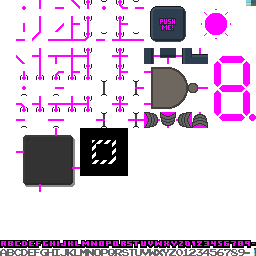
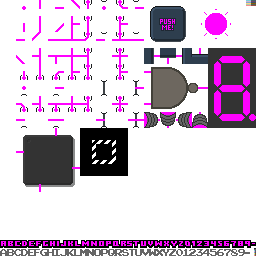
editing 7segment displays

Changed region(s): [[0.8125, 0.1875, 1.0, 0.5]]

diff --git a/src/js/sagas/moveItemAt.ts b/src/js/sagas/moveItemAt.ts
@@ -1,7 +1,7 @@
 import { BoxArea } from 'ennea-tree/lib/types';
 import getNetAt from 'ekkiog-editing/lib/query/getNetAt';
 import { getLightNeighbouringNet } from 'ekkiog-editing/lib/query/getNeighbouringNets';
-import { Direction, TreeNode } from 'ekkiog-editing/lib/main';
+import { Direction, TreeNode, ComponentInputPointer, ComponentInputPointerToGate, ComponentInputPointerToSegment } from 'ekkiog-editing/lib/main';
 import { SelectionState, ItemSelectedState } from '../reduce/selection';
 import { createForest, Item, BUTTON, Tool, LIGHT, GATE, Forest, LEFTWARDS, RIGHTWARDS, DOWNWARDS, UPWARDS, Light, Gate, COMPONENT, Component, Area } from 'ekkiog-editing';
 import { get as getTileAt, AreaData } from 'ennea-tree';
@@ -76,16 +76,17 @@ function setInputs(item: Item, enneaTree: TreeNode, box : Area): Item {
         net: getNetAtPos(enneaTree, box.left, box.top, input.x, input.y, getDirection(input.x, box.width), getDirection(input.y, box.height)),
       }));
       const gates = [...item.gates];
+      const displays = [...item.displays.map(({x, y, segments}) => ({x, y, segments: [...segments]}))];
       for(const input of inputs){
-        for(const point of input.pointsTo){
+        for(const point of input.pointsTo.filter(isGatePointer)){
           gates.splice(point.index, 1, {
             ...gates[point.index],
-            ...(point.input === "A" ? {
-              inputA: input.net
-            } : {
-              inputB: input.net
-            })
+            inputA: point.input === 'A' ? input.net : gates[point.index].inputA,
+            inputB: point.input === 'B' ? input.net : gates[point.index].inputB
           });
+        }
+        for(const point of input.pointsTo.filter(isDisplayPointer)){
+          displays[point.display].segments.splice(point.segment, 1, input.net);
         }
       }
       return {
@@ -132,4 +133,12 @@ function getDirection(pos : number, max : number){
   if(pos === 0) return -1;
   if(pos === max) return 1;
   return 0;
+}
+
+function isGatePointer(p : ComponentInputPointer) : p is ComponentInputPointerToGate {
+  return p.input === 'A' || p.input === 'B';
+}
+
+function isDisplayPointer(p : ComponentInputPointer) : p is ComponentInputPointerToSegment {
+  return p.input === 'S';
 }

diff --git a/src/js/storage/loadForest.ts b/src/js/storage/loadForest.ts
@@ -57,7 +57,7 @@ export default function mixin<T extends Constructor<IRawRepo & IObjectRepo & ILo
         body['2'] ? super.loadTree(body['2'].hash).then(t => this.loadList(t)) : [],
         body['3'] ? super.loadTree(body['3'].hash).then(t => this.loadEnnea(t, size/2)) : undefined,
         body['4'] ? super.loadTree(body['4'].hash).then(t => this.loadList(t)) : [],
-        body['5'] ? super.loadText(body['5'].hash).then(JSON.parse) : undefined,
+        body['5'] ? super.loadText(body['5'].hash).then(JSON.parse).then(upgradeAreaItem) : undefined,
         body['6'] ? super.loadTree(body['6'].hash).then(t => this.loadList(t)) : [],
         body['7'] ? super.loadTree(body['7'].hash).then(t => this.loadEnnea(t, size/2)) : undefined,
         body['8'] ? super.loadTree(body['8'].hash).then(t => this.loadList(t)) : [],
@@ -97,7 +97,13 @@ export default function mixin<T extends Constructor<IRawRepo & IObjectRepo & ILo
 
     async loadList(items : TreeBody) : Promise<EnneaLeaf[]> {
       const result = [] as EnneaLeaf[];
-      for(const {index, item} of await Promise.all(Object.keys(items).map(async item => ({index: parseInt(item), item: upgradeAreaItem(JSON.parse(await super.loadText(items[item].hash)))})))){
+      const loadedItems = await Promise.all(Object.keys(items).map(async item => ({
+        index: parseInt(item),
+        item: await super.loadText(items[item].hash)
+          .then(JSON.parse)
+          .then(upgradeAreaItem)
+      })));
+      for(const {index, item} of loadedItems){
         result[index] = item;
       }
       return result;

diff --git a/src/js/engines/text/textFromItem.ts b/src/js/engines/text/textFromItem.ts
@@ -24,7 +24,11 @@ export default function textFromItem(item : Item, area : Area) : Quad[] {
 export function* textFromComponent(component : Component, area : Area) : IterableIterator<Quad>{
   if(component.name){
     const characters = [...spritesFlat(component.name)];
-    yield* textPos(area.left+1, area.top+1, area.width-2, area.height-2, characters);
+    if(component.displays.length > 0){
+      yield* textPos(area.left+1, area.top+9/16, area.width-2, 7/16, characters);
+    }else{
+      yield* textPos(area.left+1, area.top+1, area.width-2, area.height-2, characters);
+    }
     for(const input of component.inputs){
       if(input.name){
         const characters = [...spritesThick(input.name)];
